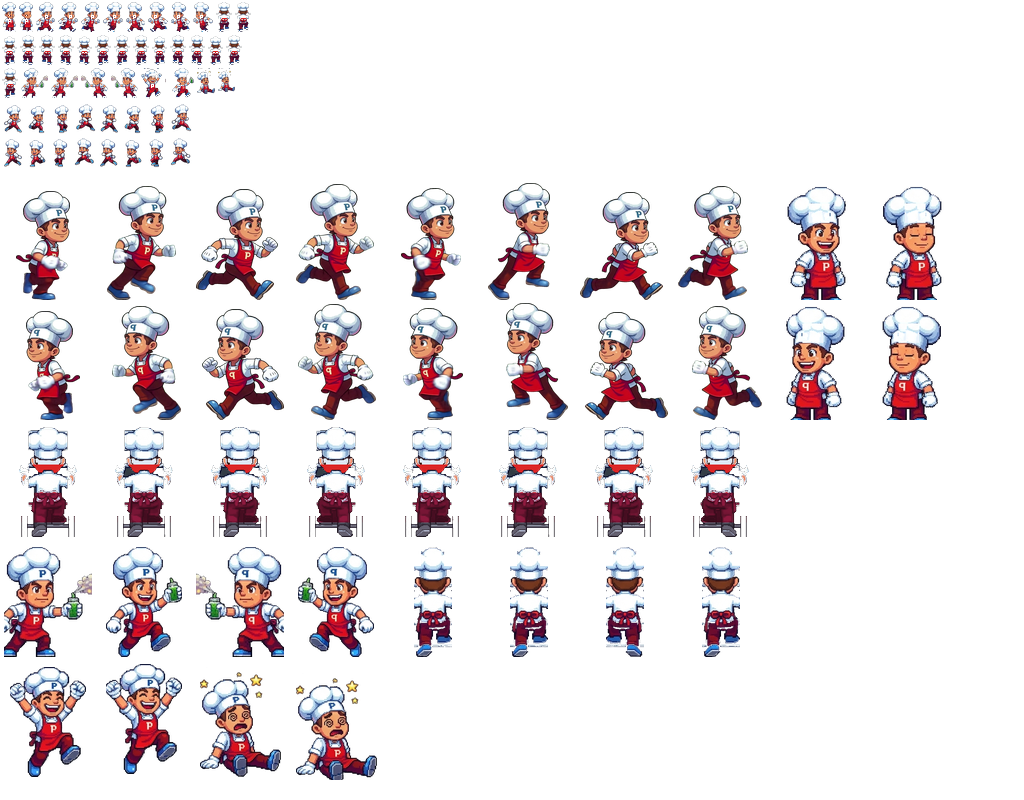
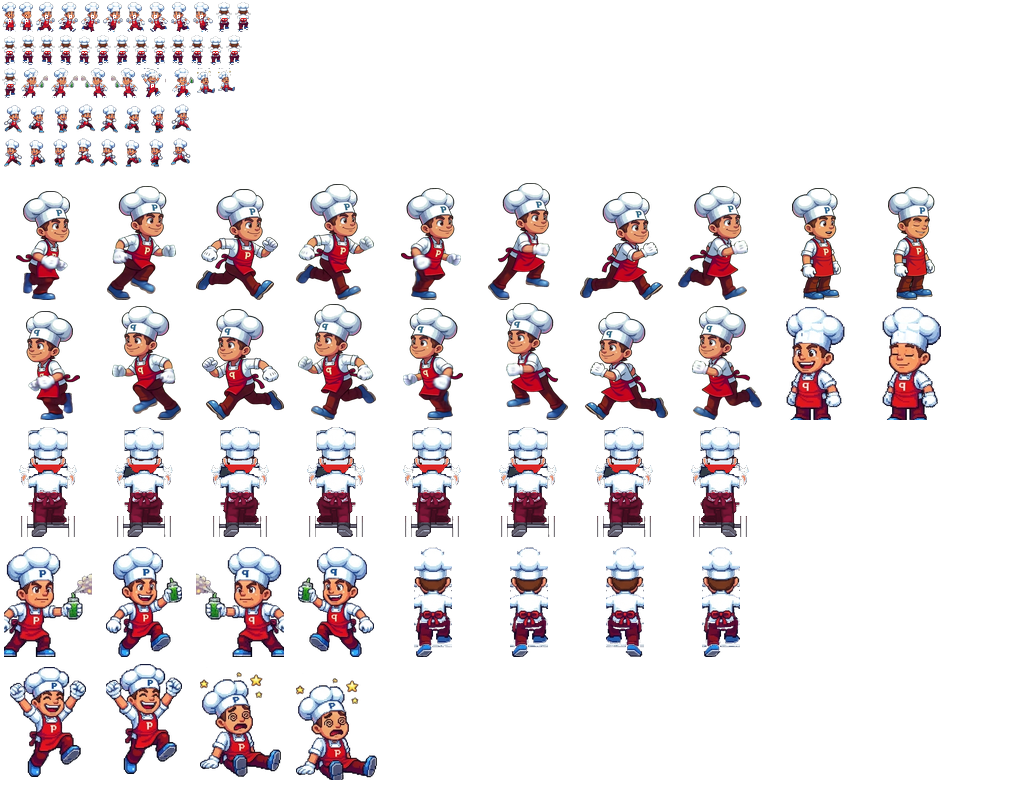
feat(sprites): extract clean HD standing sprites (detenido_1/2) from de_pie.mp4

Changed region(s): [[0.75, 0.2188, 0.9375, 0.375]]

diff --git a/index.html b/index.html
@@ -189,20 +189,20 @@
   </div>
 
   <!-- Game Scripts -->
-  <script src="js/chef_atlas.js?v=128"></script>
-  <script src="js/enemies_atlas.js?v=128"></script>
-  <script src="js/items_atlas.js?v=128"></script>
-  <script src="js/kiloburner_atlas.js?v=128"></script>
-  <script src="js/audio.js?v=128"></script>
-  <script src="js/sprites.js?v=128"></script>
-  <script src="js/kiloburner.js?v=128"></script>
-  <script src="js/map.js?v=128"></script>
-  <script src="js/burger.js?v=128"></script>
-  <script src="js/entities.js?v=128"></script>
-  <script src="js/stage_themes.js?v=128"></script>
-  <script src="js/controls.js?v=128"></script>
-  <script src="js/godot_gfx_engine.js?v=128"></script>
-  <script src="js/game.js?v=128"></script>
+  <script src="js/chef_atlas.js?v=129"></script>
+  <script src="js/enemies_atlas.js?v=129"></script>
+  <script src="js/items_atlas.js?v=129"></script>
+  <script src="js/kiloburner_atlas.js?v=129"></script>
+  <script src="js/audio.js?v=129"></script>
+  <script src="js/sprites.js?v=129"></script>
+  <script src="js/kiloburner.js?v=129"></script>
+  <script src="js/map.js?v=129"></script>
+  <script src="js/burger.js?v=129"></script>
+  <script src="js/entities.js?v=129"></script>
+  <script src="js/stage_themes.js?v=129"></script>
+  <script src="js/controls.js?v=129"></script>
+  <script src="js/godot_gfx_engine.js?v=129"></script>
+  <script src="js/game.js?v=129"></script>
 
   <!-- Service Worker Registration for Offline Play & PWA -->
   <script>

diff --git a/js/sprites.js b/js/sprites.js
@@ -37,13 +37,13 @@ class SpriteManager {
 
   initAtlas() {
     this.atlasImg = new Image();
-    this.atlasImg.src = 'assets/chef_atlas.png?v=128';
+    this.atlasImg.src = 'assets/chef_atlas.png?v=129';
     this.atlasLoaded = false;
     this.atlasImg.onload = () => {
       this.atlasLoaded = true;
     };
     this.atlasImg.onerror = () => {
-      this.atlasImg.src = 'assets/peter_atlas.png?v=128';
+      this.atlasImg.src = 'assets/peter_atlas.png?v=129';
     };
   }
 

diff --git a/sw.js b/sw.js
@@ -1,4 +1,4 @@
-const CACHE_NAME = 'burgerpanic-mobile-v128';
+const CACHE_NAME = 'burgerpanic-mobile-v129';
 const ASSETS = [
   './',
   './index.html',
